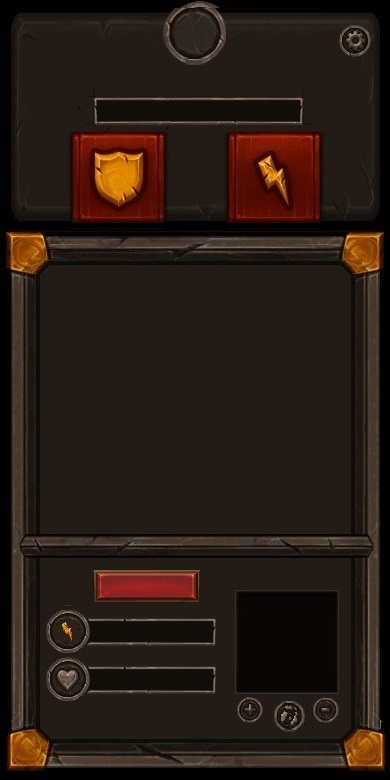
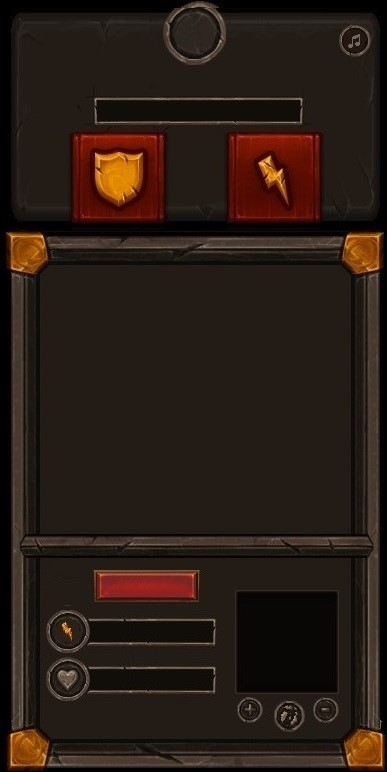
Add effect for spells

diff --git a/src/client/game.js b/src/client/game.js
@@ -9,6 +9,7 @@ const MAP_SIZE_TILES = 100;
 const GAME_CONSOLE_MAX_MESSAGES = 8;
 const MAP_NUMBER = 14;
 const TEAMS = ['red', 'blue'];
+const NUM_SPELL_IMAGES = 19;
 
 // Constants (only here)
 const bodyImgFile = {
@@ -34,6 +35,7 @@ let statsContext = statsCanvas.getContext('2d');
 
 // Boolean to see if game has started
 let playerCreated = false;
+
 
 // Reset size of canvas
 const updateCanvas = () => {
@@ -169,6 +171,15 @@ console.log(`Loading graphics...`);
 inits.loadGraphics();
 // console.timeEnd();
 
+// Loading spell images
+let spellStart = 3002;
+let numSpellImages = NUM_SPELL_IMAGES;
+let spellImages = [];
+for (let i = 0; i < numSpellImages; i++) {
+  spellImages[i] = new Image ();
+  spellImages[i].src = `/public/static/graficos/${spellStart + i}.png`;
+}
+
 ////////////////// Listen for inputs //////////////////
 // Update movement on arrow keys
 let movement = '';
@@ -195,6 +206,7 @@ let castedSpell = {
   y: -1,
   active: false
 };
+let musicPlaying = false;
 
 
 const loadSpell = (statsCanvas, event) => {
@@ -212,18 +224,42 @@ const loadSpell = (statsCanvas, event) => {
   // console.log(`buttonX: ${buttonX}-${buttonX + buttonWidth}, buttonY: ${buttonY}-${buttonY + buttonHeight}`);
 
   // Boolean to say if you clicked on button
-  let mouseInButton = (
+  let mouseInSpellButton = (
     x >= buttonX &&
     x <= buttonX + buttonWidth &&
     y >= buttonY &&
     y <= buttonY + buttonHeight
   );
 
-  if (mouseInButton) {
+  if (mouseInSpellButton) {
     document.body.style.cursor = 'url(/public/assets/ui/cursor-crosshair.png), auto';
     loadedSpell = true;
   }
-  console.log(mouseInButton);
+
+  // Get mouse volume rectangle
+  let volumeButtonX = statsCanvas.width * 0.87;
+  let volumeButtonY = statsCanvas.height * 0.04;
+  let volumeButtonWidth = statsCanvas.width * 0.06; 
+  let volumeButtonHeight = volumeButtonWidth;
+
+  let mouseInVolumeButton = (
+    x >= volumeButtonX &&
+    x <= volumeButtonX + volumeButtonWidth &&
+    y >= volumeButtonY &&
+    y <= volumeButtonY + volumeButtonHeight
+  );
+
+  if (mouseInVolumeButton) {
+    if (musicPlaying) {
+      // document.getElementById('game-music').pause();  
+      musicPlaying = false;
+    } else {
+      // document.getElementById('game-music').play();
+      musicPlaying = true;
+    }
+  }
+
+  // console.log(mouseInVolumeButton);
 };
 
 statsCanvas.addEventListener('click', function(e) {
@@ -255,7 +291,7 @@ const castSpell = (canvas, event) => {
 };
 
 canvas.addEventListener('click', function(e) {
-  console.log(`Clicked on canvas`);
+  // console.log(`Clicked on canvas`);
   castSpell(canvas, e);
 });
 
@@ -339,7 +375,7 @@ const drawTeam = (player) => {
 const drawCastSpell = () => {
   statsContext.fillStyle = 'darkred';
   let buttonX = statsCanvas.width * 0.24 - 10;
-  let buttonY = statsCanvas.height * 0.73;
+  let buttonY = statsCanvas.height * 0.737;
   let buttonWidth = statsCanvas.width * 0.265; 
   let buttonHeight = statsCanvas.height * 0.042;
   // statsContext.fillRect(buttonX, buttonY, buttonWidth, buttonHeight);
@@ -355,8 +391,8 @@ const drawCastSpell = () => {
 const drawHealth = (player) => {
   statsContext.fillStyle = 'darkred';
   let barX = statsCanvas.width * 0.235;
-  let barY = statsCanvas.height * 0.861;
-  let barFullWidth = statsCanvas.width * 0.295; 
+  let barY = statsCanvas.height * 0.869;
+  let barFullWidth = statsCanvas.width * 0.297; 
   let barWidth = barFullWidth * player.health / player.initialHealth;
   let barHeight = statsCanvas.height * 0.019;
   statsContext.fillRect(barX, barY, barWidth, barHeight);
@@ -372,8 +408,8 @@ const drawHealth = (player) => {
 const drawMana = (player) => {
   statsContext.fillStyle = 'blue';
   let barX = statsCanvas.width * 0.235;
-  let barY = statsCanvas.height * 0.8;
-  let barFullWidth = statsCanvas.width * 0.295; 
+  let barY = statsCanvas.height * 0.808;
+  let barFullWidth = statsCanvas.width * 0.297; 
   let barWidth = barFullWidth * player.mana / player.initialMana;
   let barHeight = statsCanvas.height * 0.019;
   statsContext.fillRect(barX, barY, barWidth, barHeight);
@@ -391,8 +427,8 @@ const drawMiniMap = (player) => {
   img.src = `public/static/imgs_mapas/${MAP_NUMBER}.png`;
 
   // Draw map
-  let imgX = statsCanvas.width * 0.605;
-  let imgY = statsCanvas.height * 0.76;
+  let imgX = statsCanvas.width * 0.610;
+  let imgY = statsCanvas.height * 0.771;
   let imgSize = statsCanvas.height * 0.123;
   statsContext.drawImage(img, imgX, imgY, imgSize, imgSize);
 
@@ -576,12 +612,22 @@ const drawPlayer = (player, playerSize, deltaDisplayX, deltaDisplayY) => {
   context.textBaseline = 'top';
   context.font = "600 13px Arial";
   context.fillText(`< ${player.name} >`, playerDisplayX + playerSize / 2, playerDisplayY + playerSize * 1.1);
+
   // Draw message
   context.fillStyle = 'white';
   context.textAlign = 'center';
   context.textBaseline = 'bottom';
   context.font = "600 13px Arial";
   wrapText(context, player.chatMessage, playerDisplayX + playerSize / 2, playerDisplayY - playerSize * 0.5, 10 * playerSize, 15 );
+
+  //Draw spell if any
+  if (player.counter >= 1 && player.counter <= NUM_SPELL_IMAGES ) {
+    let numImage = Math.floor(player.counter - 1);
+    let spell = spellImages[numImage];
+    let spellX = playerDisplayX + playerSize / 2 - spell.naturalWidth / 2;
+    let spellY = playerDisplayY + playerSize - spell.naturalHeight;
+    context.drawImage(spell, spellX, spellY, spell.naturalWidth, spell.naturalHeight);
+  }
 };
 
 // const drawBlockedPositions = (gameState, playerSize, deltaDisplayX, deltaDisplayY) => {
@@ -611,6 +657,7 @@ const createPlayer = () => {
     //Stop intro music and start game music
     // document.getElementById('intro-music').pause();
     // document.getElementById('game-music').play();
+    musicPlaying = true;
   
     //Remove login area
     let overlay = document.getElementById('overlay');

diff --git a/src/server/server.js b/src/server/server.js
@@ -43,6 +43,7 @@ const MAP_SIZE_TILES = 100;
 const GAME_CONSOLE_MAX_MESSAGES = 7;
 const MAP_NUMBER = 14;
 const TEAMS = ['red', 'blue']; // Visuals might now work properly with more than three teams
+const NUM_SPELL_IMAGES = 19;
 
 // Constants (just for server)
 const PLAYER_INITIAL_HEALTH = 100;
@@ -84,7 +85,7 @@ class Player {
     };
 
     // In-game console messages
-    this.gameConsoleArray = [];
+    this.gameConsoleArray = [`Welcome to the AO Arena! Your goal is to kill players from other teams by attacking or casting spells on them`, `Move with the arrow keys, attack with shift or control, and cast a spell with your mouse.`, `You can also press 'Enter' to start chatting with other players.`,`--------------------------------------------------------------------------------------------------------------`];
 
     // In-game chat
     this.chatMessage = '';
@@ -92,12 +93,14 @@ class Player {
     // Fighting
     this.initialHealth = PLAYER_INITIAL_HEALTH;
     this.health = PLAYER_INITIAL_HEALTH;
-
     this.initialMana = PLAYER_INITIAL_MANA;
     this.mana = PLAYER_INITIAL_MANA;
     this.spellDamage = PLAYER_ATTACK_DAMAGE;
-
     this.attackDamage = PLAYER_ATTACK_DAMAGE;
+
+    // Animation
+    this.receivingSpell = 0;
+    this.counter = 0;
 
     // Stats
     this.kills = 0;
@@ -237,6 +240,7 @@ class Player {
 
       let spellDamage = Math.floor(this.spellDamage * randomAttackCoefficient);
       targetPlayer.health -= spellDamage;
+      targetPlayer.receivingSpell = 1;
       this.mana -= SPELL_MANA;
 
       // If death, respawn
@@ -300,7 +304,7 @@ class State {
 const randomPosition = (player) => {
   let xCenter = MAP_SIZE_TILES / 2;
   let yCenter = MAP_SIZE_TILES / 2;
-  let diagonalDistanceFromCenter = 25;
+  let diagonalDistanceFromCenter = 2;
 
   let numberTeams = TEAMS.length;
   let radians = 2 * Math.PI;
@@ -355,8 +359,20 @@ setInterval(function() {
 
 ////////////////// Server <> Client //////////////////
 // Send message to client
+
 setInterval(function() {
     io.sockets.emit('state', gameState);
+    // Update counters for animation
+    for (const socketId in gameState.players) {
+      let player = gameState.players[socketId]; 
+      if (player.receivingSpell === 1) { 
+        player.counter = 0.9; 
+        player.receivingSpell = 0;
+      }
+      if (player.counter >= 0.9 && player.counter <= NUM_SPELL_IMAGES ) {
+        player.counter += 0.2;
+      } 
+    }
   }, 1000 / 60);
   
 // Respond to messages
